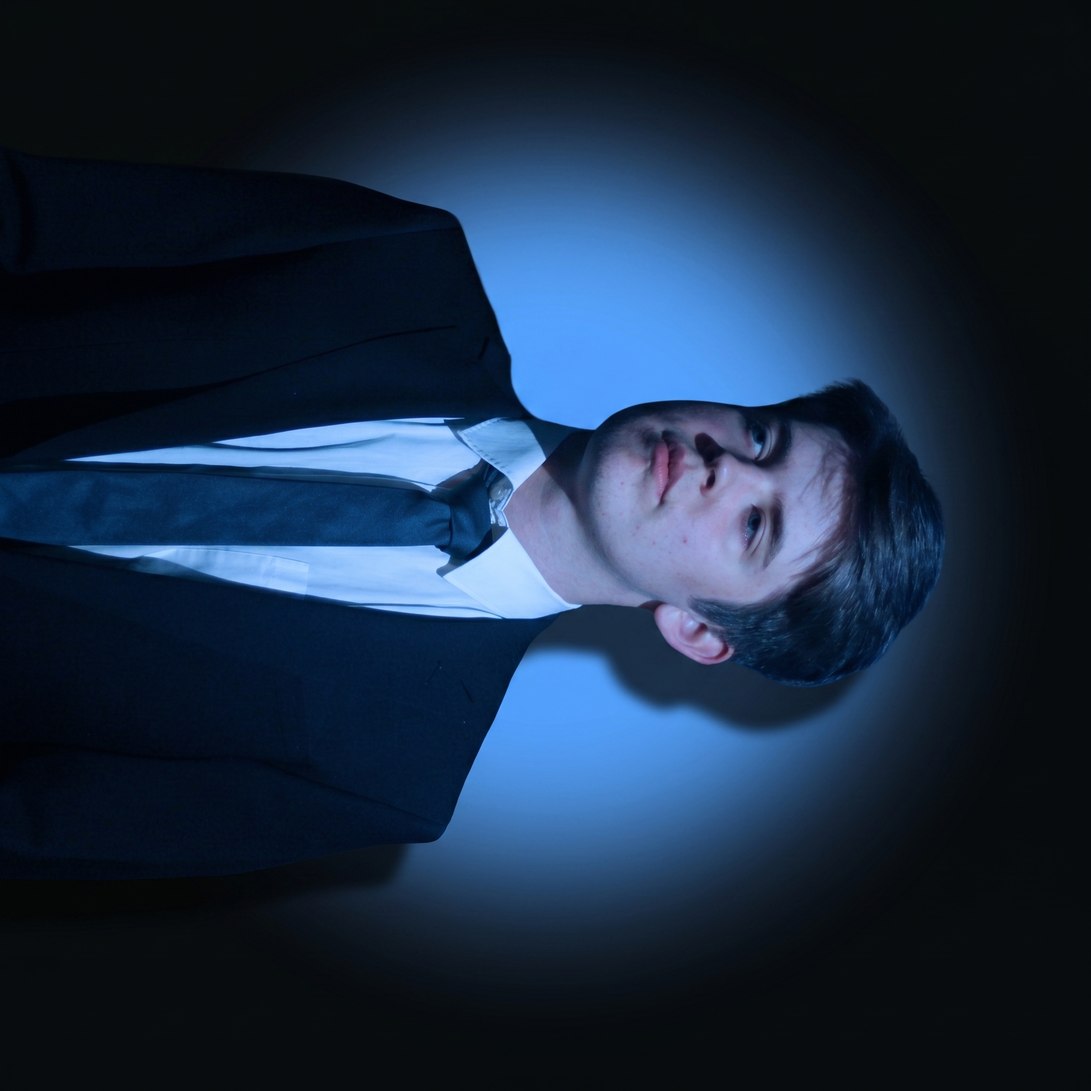
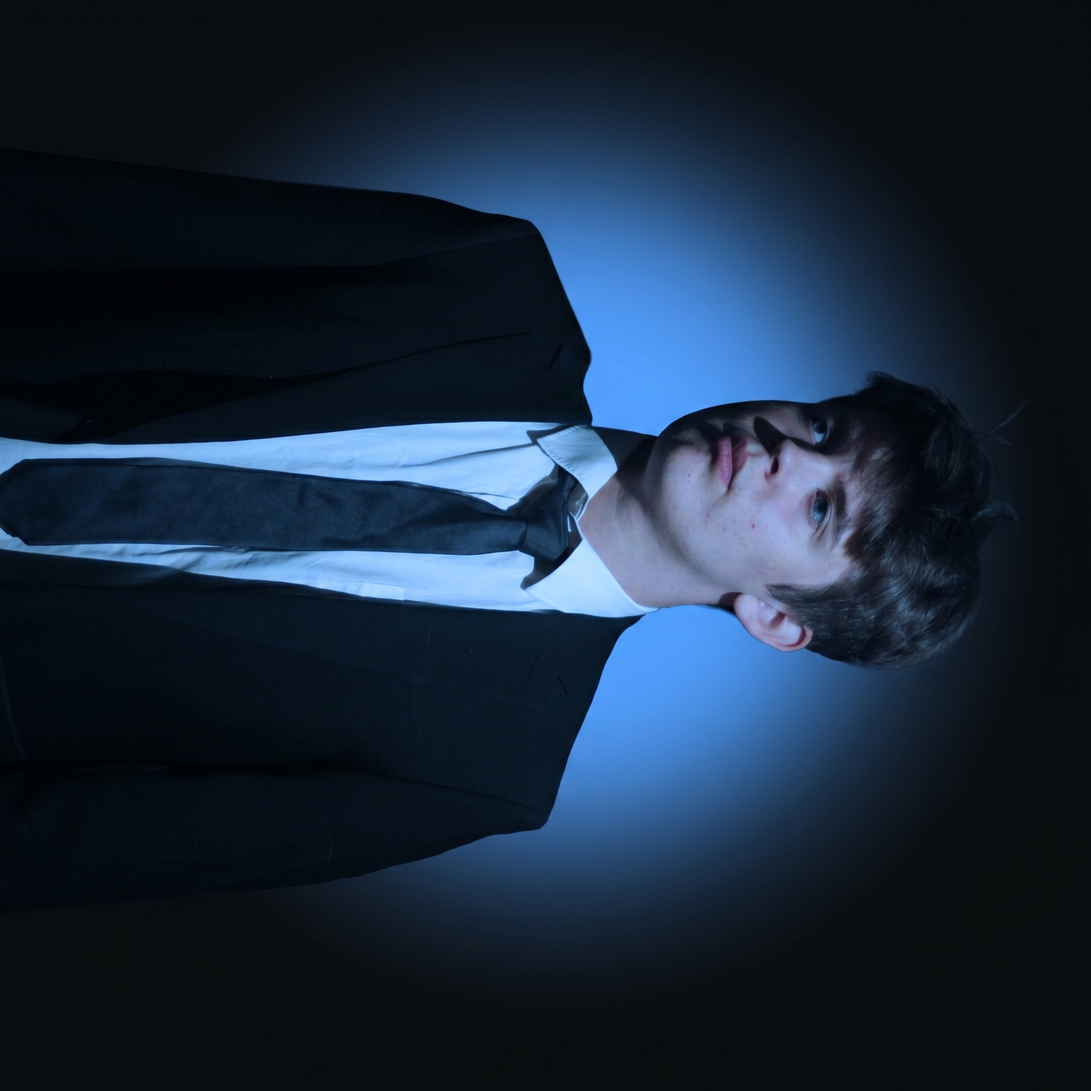
chore: replace Béla team photo with new version + cache-bust
New Béla.png from Béla, same filename as before. Append ?v=2 to
the HTML src so browsers actually fetch the new version instead
of serving the cached copy blocked by nginx's immutable header.

Changed region(s): [[0.0, 0.1562, 0.9062, 0.8125], [0.1875, 0.6875, 0.25, 0.7188], [0.3125, 0.3125, 0.3438, 0.3438]]

diff --git a/index.html b/index.html
@@ -1123,7 +1123,7 @@
       <div class="reveal rc team-card h-full flex flex-col overflow-hidden">
         <!-- Photo with glow ring -->
         <div class="w-full aspect-square relative overflow-hidden" style="background:radial-gradient(circle at 50% 60%,rgba(96,165,250,0.12),transparent 70%),#0a0a0a;">
-          <img src="assets/team/B%C3%A9la.png" alt="Béla Junker — Co-Founder Development bei BJL Studios" class="team-photo" loading="lazy" decoding="async">
+          <img src="assets/team/B%C3%A9la.png?v=2" alt="Béla Junker — Co-Founder Development bei BJL Studios" class="team-photo" loading="lazy" decoding="async">
           <div class="glow-ring absolute inset-0 rounded-full m-8 border border-accent/20 pointer-events-none" style="box-shadow:0 0 30px rgba(96,165,250,0.15);"></div>
         </div>
         <div class="p-6 flex flex-col flex-1">
